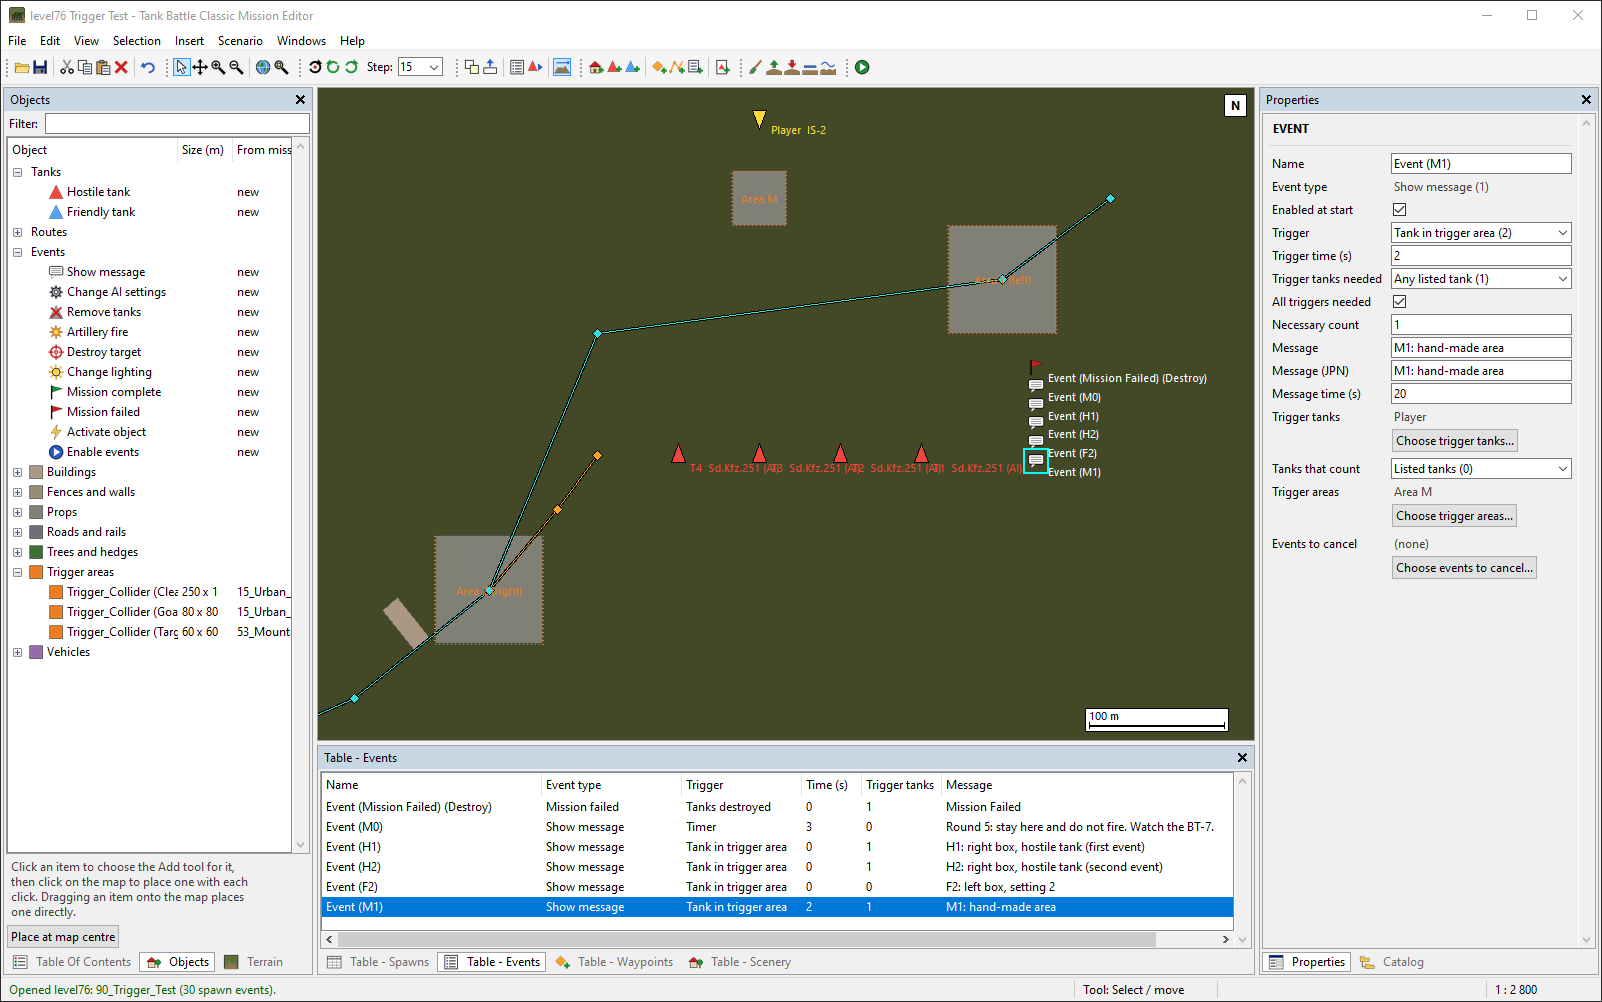
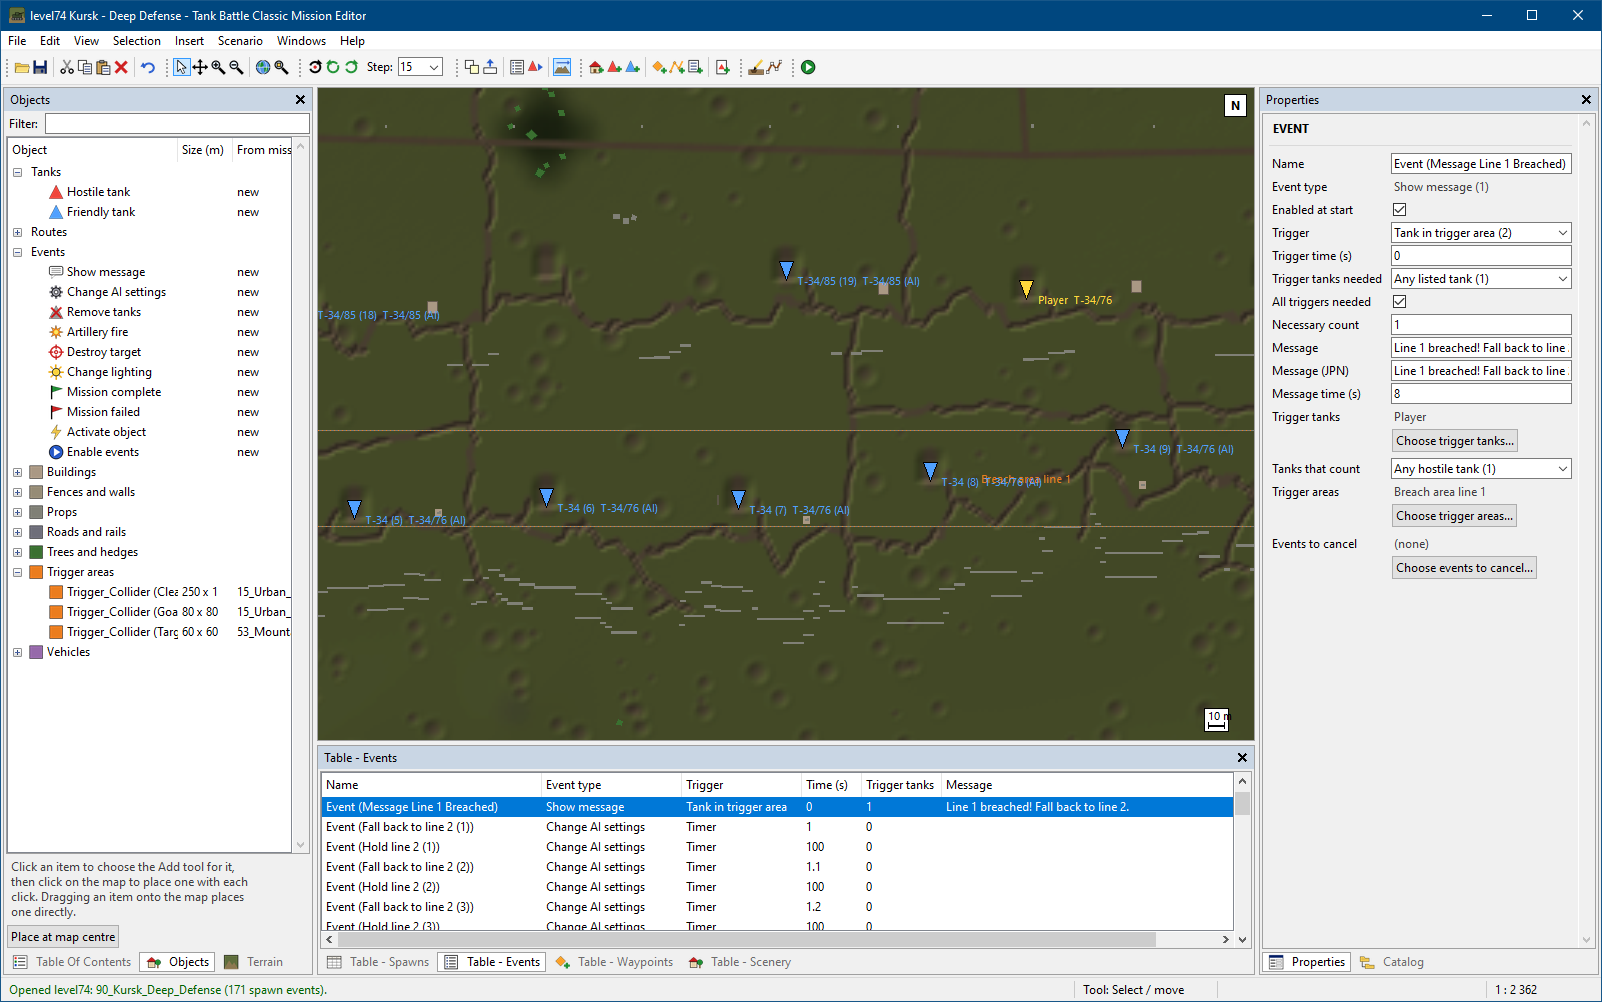
README: current screenshots, controls, limitations
New main and events screenshots (the toolbar of 1.18 and later). The
controls table lists finishing a drawing, freehand drawing and adding a
point to a terrain feature. New limitations: event messages of more than
45 characters can be cut off; the briefing screen lists at most 9 unit
groups. Clearer text on removing scenarios, exports after a game update and
the included scenarios.

diff --git a/README.md b/README.md
@@ -1,10 +1,9 @@
 # Tank Battle Classic Mission Editor
 
-Mission and map editor for the Windows game *Tank Battle Classic* (Steam). Edits your 
-own installed copy. This unofficial application does not contain any game content and 
-is not affiliated with the game's developer or publisher. Buy the game from 
+Mission and map editor for the Windows game *Tank Battle Classic* (Steam). Edits your
+own installed copy. This unofficial application does not contain any game content and
+is not affiliated with the game's developer or publisher. Buy the game from
 https://store.steampowered.com/app/5086560/Tank_Battle_Classic/
-
 
 ![Main window: mission map with a selected tank and its route, layers, spawn table and properties](docs/screenshot-main.png)
 
@@ -42,29 +41,32 @@ button returns to Select / move.
 | --- | --- |
 | Click / Shift+click / Ctrl+click | select / add / toggle |
 | Drag on empty map / drag selection (Select / move) | selection box / move |
-| Right-click | context menu; finishes a route or terrain feature being drawn |
+| Right-click | context menu; finishes a drawing |
 | Wheel / middle or right drag, or Space held | zoom / pan (in any tool) |
-| Backspace / Esc while drawing a route or terrain feature | remove the last point / cancel |
+| Drag (Draw terrain) | draw freehand |
+| Double-click or Enter / Backspace / Esc while drawing | finish / remove the last point / cancel |
+| Double-click a feature's line (Edit terrain features) | add a point |
 | Ctrl+X / C / V | cut / copy / paste (at the pointer) |
 | Del, Ctrl+D, Q / E | delete, duplicate, rotate |
 | Ctrl+Z, Ctrl+S, Ctrl+A | undo, save, select all |
-| Esc | cancel a drawing or selection box in progress, else clear a selected terrain feature, else back to Select / move, else clear the selection |
+| Esc | cancel; else deselect; else back to Select / move |
 
 Help > Controls lists all shortcuts.
 
-## Backups
+## Backups and removal
 
 The first save of a level keeps the original (File > Restore original).
-Scenario > Remove scenario (or right-click it in the Catalog) removes one
-scenario; Scenario > Remove all custom scenarios undoes all. Steam's "Verify
-integrity of game files" also restores everything.
+
+Scenario > Remove scenario removes one scenario (also: right-click it in the
+Catalog). Scenario > Remove all custom scenarios removes all of them and undoes
+text changes to the original missions. Steam's "Verify integrity of game
+files" restores the game.
 
 Backups and settings are kept next to the program, in `backups\` and
 `settings.json` (Help > Open backup folder). To update, unzip the new version
 over the old `TankBattleMissionEditor` folder; the backups stay. If the program
 folder cannot be written (for example under Program Files), the editor uses
-`%LOCALAPPDATA%\TankBattleMissionEditor` instead. Data of earlier versions in
-that folder is moved next to the program once.
+`%LOCALAPPDATA%\TankBattleMissionEditor` instead.
 
 Custom scenarios are backed up on every save. A game update removes them from
 the game; the editor then offers to restore them, converted to the new game
@@ -73,21 +75,20 @@ version (also: Scenario > Restore scenarios from backup).
 Scenario > Export scenario saves a scenario as one `.tbscenario` file to share;
 Scenario > Import scenario installs one. The file holds no game files, only the
 map and the names of the game assets it uses: the recipient needs the game and
-this editor, in any game version. Deleted objects, including the switched-off
-objects of the mission a scenario was made from, are left out of the file.
+this editor, also after a game update. Deleted objects, including the
+switched-off objects of the mission a scenario was made from, are left out.
 
 ## Included scenarios
 
 Two scenarios made with the editor come with it (`Scenarios` folder of the
 release, `scenarios/` in the source). Install them with Scenario > Import
-scenario.
+scenario; they appear on the Custom Missions page.
 
 - **Kursk - Deep Defense**: July 1943. Hold three trench lines with a T-34
-  company against three German waves of 125 tanks after an artillery barrage;
-  the defenders fall back when a line is breached.
-- **Kursk - Breakthrough**: the same battlefield from the other side. Attack
-  with the first German wave in a Panzer IV and break through all three
-  Soviet lines.
+  company against 125 German tanks in three waves. Defenders fall back when a
+  line is breached.
+- **Kursk - Breakthrough**: the same battle from the German side. Attack in a
+  Panzer IV and break through all three Soviet lines.
 
 Both offer every tank of the game as the player's tank.
 
@@ -100,6 +101,8 @@ Both offer every tank of the game as the player's tank.
 - Saving a custom scenario rebuilds its AI route map when terrain or objects
   changed. The rebuilt map is close to the game's own; in dense city and
   mountain areas AI routes can differ.
+- Event messages longer than 45 characters can be cut off in the game.
+- The briefing screen lists at most 9 unit groups.
 - After a game update, objects whose scripts changed cannot be edited until a
   new version of the editor is released.
 
